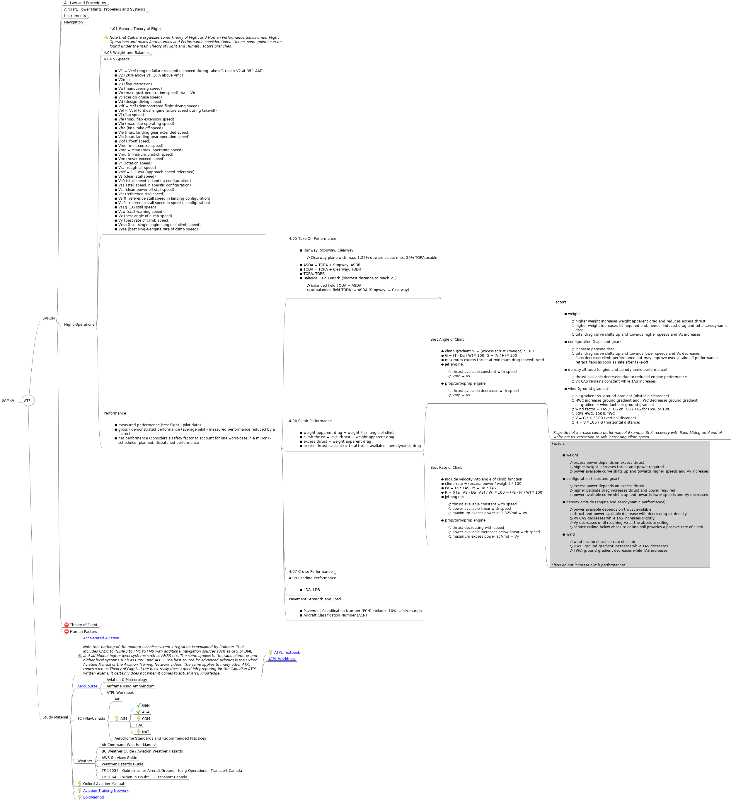
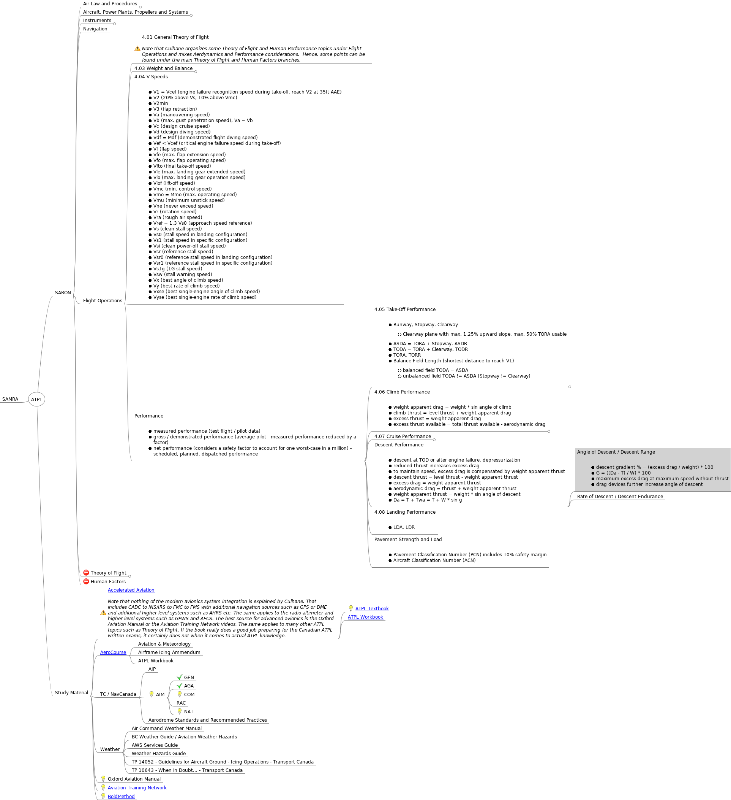
extended ATPL mind map

diff --git a/ATPL/Exam/ATPL.mm b/ATPL/Exam/ATPL.mm
@@ -5846,7 +5846,7 @@
 </html></richcontent>
 <icon BUILTIN="messagebox_warning"/>
 </node>
-<node CREATED="1571947425006" FOLDED="true" ID="ID_1900218758" MODIFIED="1572288230703">
+<node CREATED="1571947425006" FOLDED="true" ID="ID_1900218758" MODIFIED="1572384376518">
 <richcontent TYPE="NODE"><html>
   <head>
     
@@ -5857,7 +5857,7 @@
     </p>
   </body>
 </html></richcontent>
-<node CREATED="1571950107330" FOLDED="true" ID="ID_1908410094" MODIFIED="1572288222146">
+<node CREATED="1571950107330" FOLDED="true" ID="ID_1908410094" MODIFIED="1572384374454">
 <richcontent TYPE="NODE"><html>
   <head>
     
@@ -6136,7 +6136,7 @@
   </body>
 </html></richcontent>
 </node>
-<node CREATED="1572288362185" ID="ID_864967113" MODIFIED="1572291309587">
+<node CREATED="1572288362185" ID="ID_864967113" MODIFIED="1572381905040">
 <richcontent TYPE="NODE"><html>
   <head>
     
@@ -6161,7 +6161,7 @@
     </ul>
   </body>
 </html></richcontent>
-<node CREATED="1572288258686" FOLDED="true" ID="ID_647059776" MODIFIED="1572373690258">
+<node CREATED="1572288258686" FOLDED="true" ID="ID_647059776" MODIFIED="1572381875864">
 <richcontent TYPE="NODE"><html>
   <head>
     
@@ -6331,7 +6331,7 @@
 </html></richcontent>
 </node>
 </node>
-<node CREATED="1572288287627" ID="ID_860230094" MODIFIED="1572371405693">
+<node CREATED="1572288287627" FOLDED="true" ID="ID_860230094" MODIFIED="1572384298651">
 <richcontent TYPE="NODE"><html>
   <head>
     
@@ -6358,9 +6358,8 @@
       </li>
     </ul>
   </body>
-</html>
-</richcontent>
-<node CREATED="1572371365302" ID="ID_480925617" MODIFIED="1572375229847">
+</html></richcontent>
+<node CREATED="1572371365302" FOLDED="true" ID="ID_480925617" MODIFIED="1572383775976">
 <richcontent TYPE="NODE"><html>
   <head>
     
@@ -6377,7 +6376,7 @@
         climb gradient % = (excess thrust / weight) * 100
       </li>
       <li>
-        G = (T - Da / W) * 100, G = (V / H) * 100
+        G = ((T - Da) / W) * 100, G = (V / H) * 100
       </li>
       <li>
         maximum excess thrust at minimum drag (speed) Vmd
@@ -6402,7 +6401,7 @@
             thrust available decreases with speed
           </li>
           <li>
-            Vmp = Vx
+            Vmp = Vx, Vmp = 0.76Vmd
           </li>
         </ul>
       </li>
@@ -6497,11 +6496,10 @@
       <i>Flaps do not increase climb performance! Example: Stall recovery with flaps 10deg until end of white arc vs. retraction at safe increasing climb speed.</i>
     </p>
   </body>
-</html>
-</richcontent>
+</html></richcontent>
 </node>
 </node>
-<node CREATED="1572371376017" ID="ID_1286313910" MODIFIED="1572376680496">
+<node CREATED="1572371376017" FOLDED="true" ID="ID_1286313910" MODIFIED="1572381867879">
 <richcontent TYPE="NODE"><html>
   <head>
     
@@ -6531,7 +6529,7 @@
 
         <ul>
           <li>
-            thrust available constant with speed
+            thrust available constant with increasing TAS
           </li>
           <li>
             power available linear with speed
@@ -6546,7 +6544,7 @@
 
         <ul>
           <li>
-            thrust decreasing with speed
+            thrust decreasing with increasing TAS
           </li>
           <li>
             power available increases below linear with speed
@@ -6560,7 +6558,7 @@
   </body>
 </html>
 </richcontent>
-<node CREATED="1572375234211" ID="ID_1455168310" MODIFIED="1572377472746">
+<node CREATED="1572375234211" ID="ID_1455168310" MODIFIED="1572380829420">
 <richcontent TYPE="NODE"><html>
   <head>
     
@@ -6612,6 +6610,21 @@
           </li>
           <li>
             thrust and power available decrease with decreasing air density
+
+            <ul>
+              <li>
+                thrust available decreases more than TAS increases
+              </li>
+            </ul>
+          </li>
+          <li>
+            power required increases with decreasing air density
+
+            <ul>
+              <li>
+                drag remains constant (same CAS) while TAS increases
+              </li>
+            </ul>
           </li>
           <li>
             Vy CAS decreases while TAS increases slightly
@@ -6652,8 +6665,8 @@
 </node>
 </node>
 </node>
-<node CREATED="1572288315992" FOLDED="true" ID="ID_1443800187" MODIFIED="1572370344864" TEXT="4.07 Cruise Performance">
-<node CREATED="1571852091199" FOLDED="true" ID="ID_439706302" MODIFIED="1572288471082">
+<node CREATED="1572288315992" FOLDED="true" ID="ID_1443800187" MODIFIED="1572382016107" TEXT="4.07 Cruise Performance">
+<node CREATED="1571852091199" ID="ID_439706302" MODIFIED="1572381299650">
 <richcontent TYPE="NODE"><html>
   <head>
     
@@ -7007,6 +7020,79 @@
 </node>
 </node>
 </node>
+<node CREATED="1572381914920" ID="ID_1801647917" MODIFIED="1572383268846">
+<richcontent TYPE="NODE"><html>
+  <head>
+    
+  </head>
+  <body>
+    <p>
+      Descent Performance
+    </p>
+    <p>
+      
+    </p>
+    <ul>
+      <li>
+        descent at TOD or after engine failure, depressurization
+      </li>
+      <li>
+        reduced thrust increases excess drag
+      </li>
+      <li>
+        to maintain speed, excess drag is compensated by weight apparent thrust
+      </li>
+      <li>
+        descent thrust = level thrust - weight apparent thrust
+      </li>
+      <li>
+        excess drag = weight apparent thrust
+      </li>
+      <li>
+        aerodynamic drag = thrust + weight apparent thrust
+      </li>
+      <li>
+        weight apparent thrust = weight * sin angle of descent
+      </li>
+      <li>
+        Da = T + Twa = T + W * sin g&#160;
+      </li>
+    </ul>
+  </body>
+</html>
+</richcontent>
+<node CREATED="1572382075727" ID="ID_466214932" MODIFIED="1572384151192">
+<richcontent TYPE="NODE"><html>
+  <head>
+    
+  </head>
+  <body>
+    <p>
+      Angle of Descent / Descent Range
+    </p>
+    <p>
+      
+    </p>
+    <ul>
+      <li>
+        descent gradient % = (excess drag / weight) * 100
+      </li>
+      <li>
+        G = ((Da - T) / W) * 100
+      </li>
+      <li>
+        maximum excess drag at maximum speed without thrust
+      </li>
+      <li>
+        drag devices further increase angle of descent
+      </li>
+    </ul>
+  </body>
+</html>
+</richcontent>
+</node>
+<node CREATED="1572382101682" ID="ID_1747781193" MODIFIED="1572382111952" TEXT="Rate of Descent / Descent Endurance"/>
+</node>
 <node CREATED="1572288344914" ID="ID_132736715" MODIFIED="1572292407854">
 <richcontent TYPE="NODE"><html>
   <head>
@@ -7052,7 +7138,7 @@
 </node>
 </node>
 </node>
-<node CREATED="1568173868337" FOLDED="true" ID="ID_1290650653" MODIFIED="1572297669528" TEXT="Theory of Flight">
+<node CREATED="1568173868337" FOLDED="true" ID="ID_1290650653" MODIFIED="1572384351274" TEXT="Theory of Flight">
 <icon BUILTIN="closed"/>
 <node CREATED="1571791842521" FOLDED="true" ID="ID_416036682" MODIFIED="1572297662494" TEXT="4.01 General Theory of Flight">
 <node CREATED="1571791871556" ID="ID_1614108199" MODIFIED="1572115126055">
